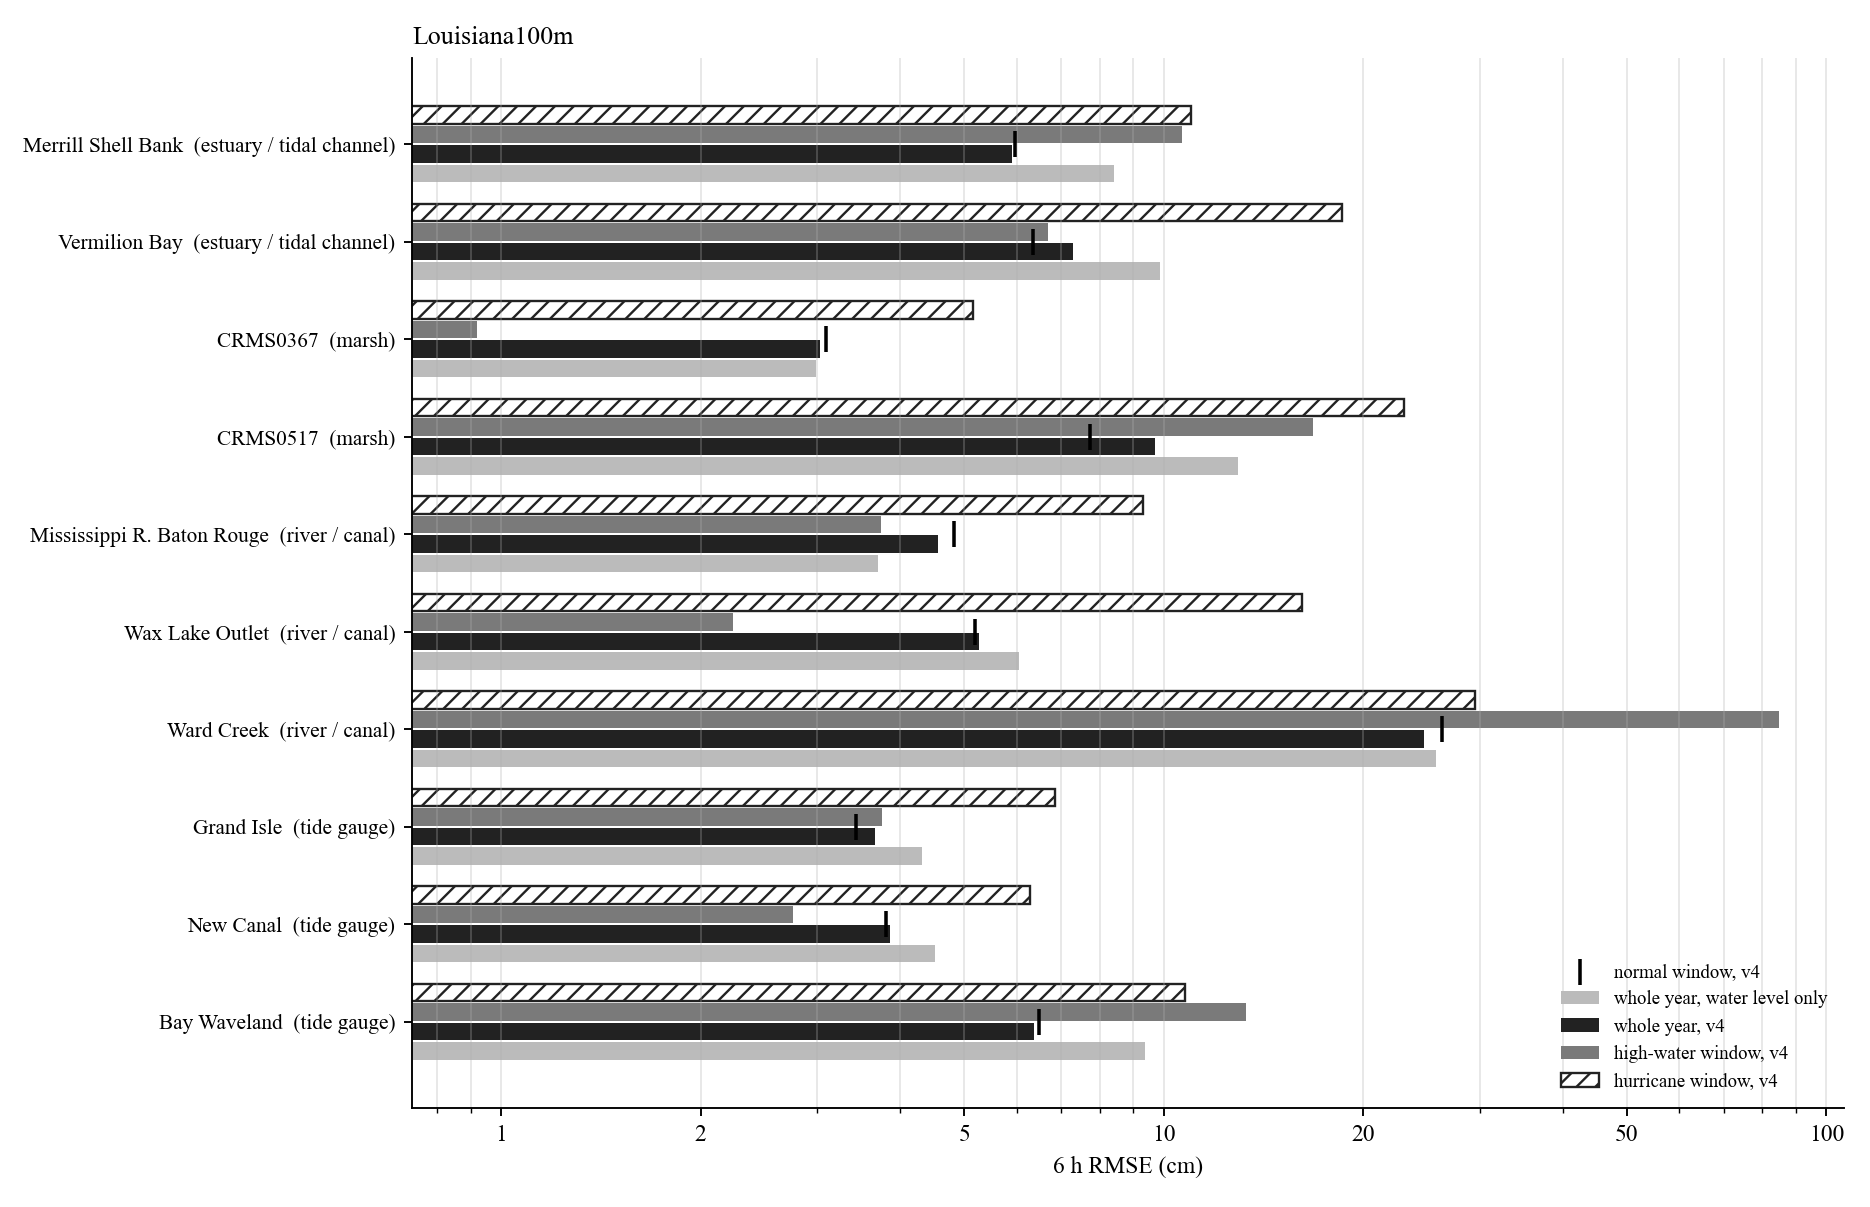
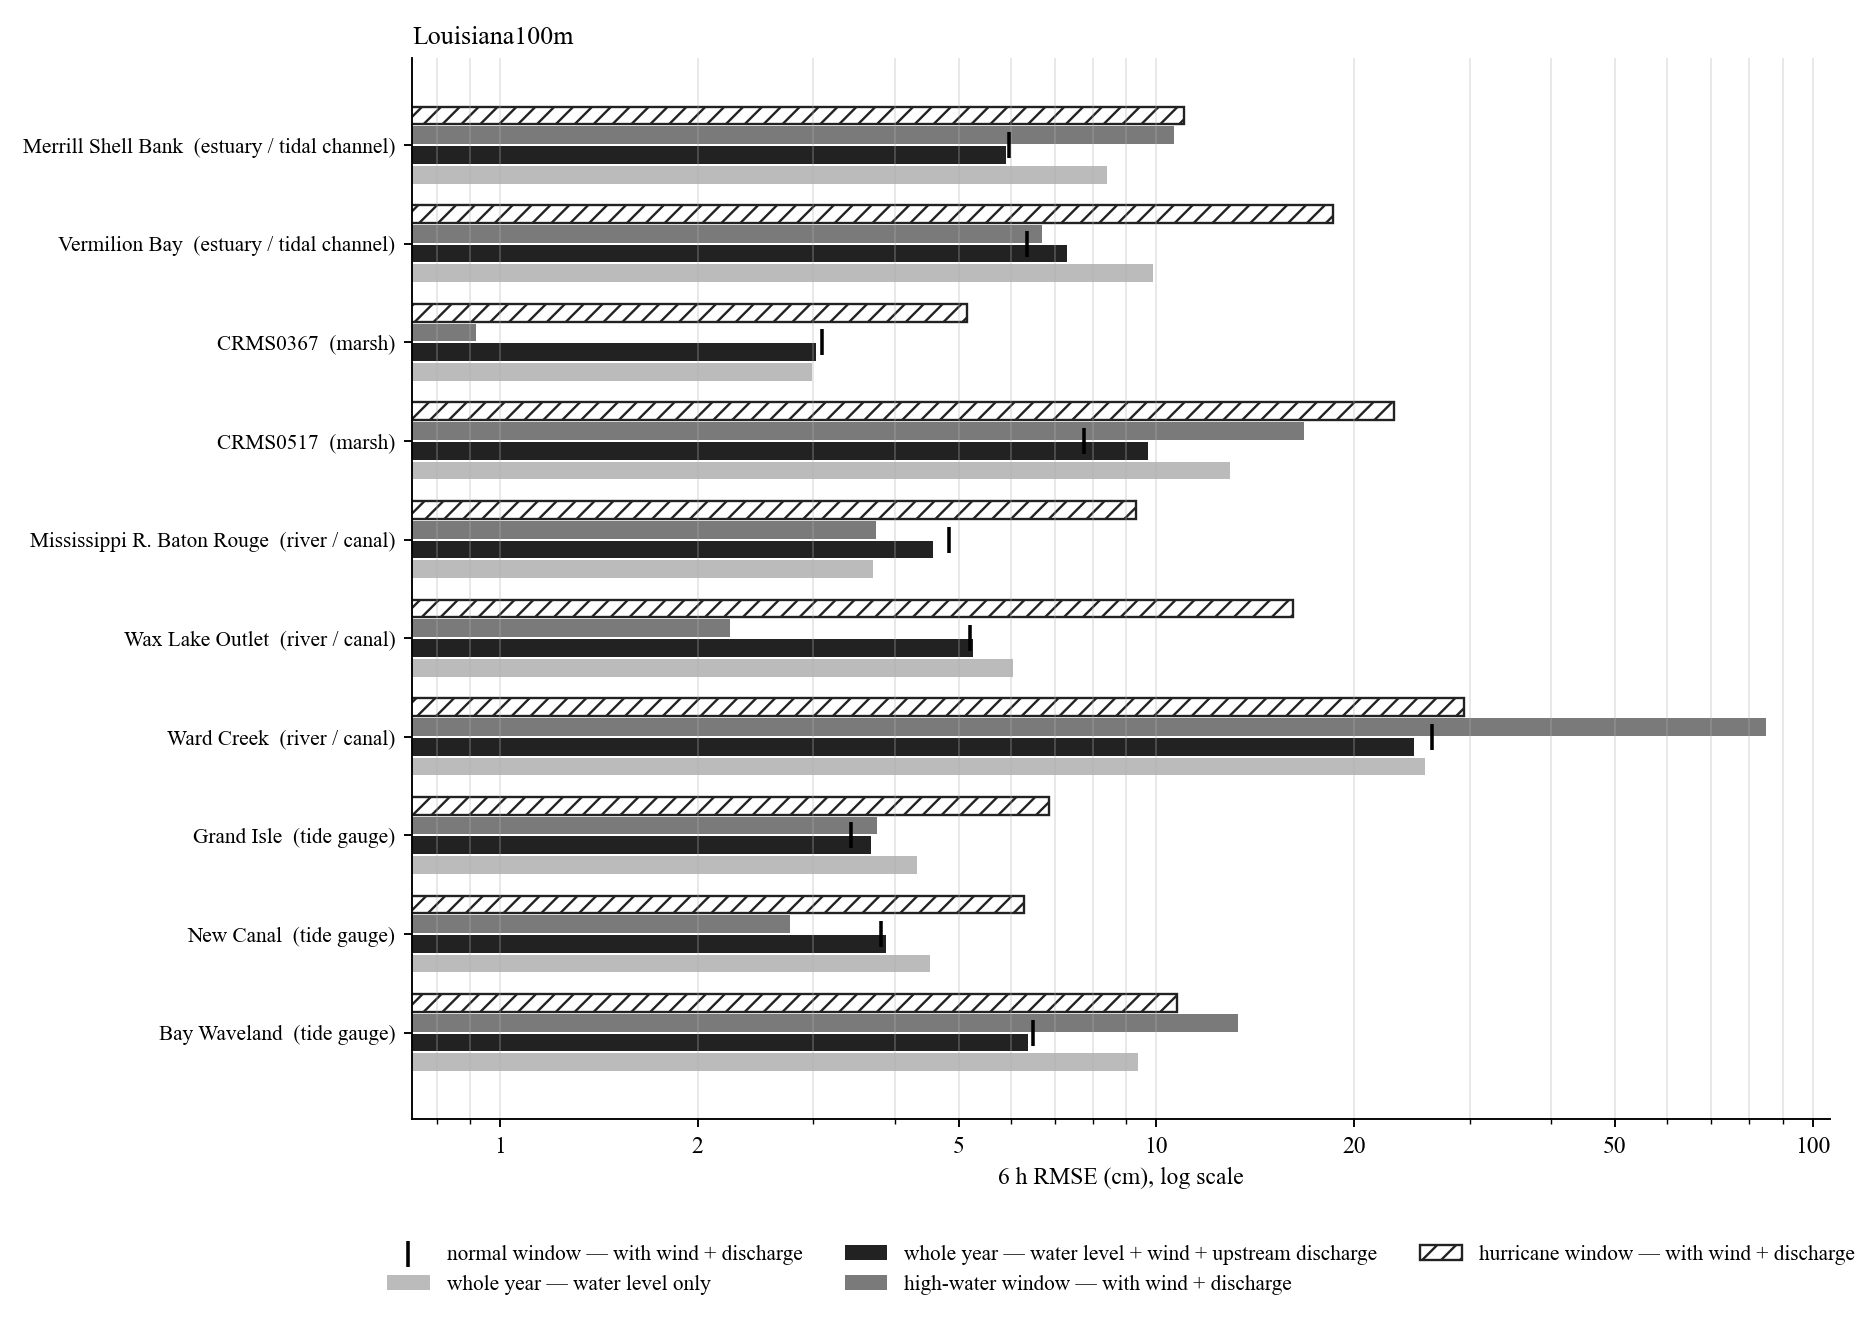
figures and slides: descriptive model labels instead of internal run codes

Changed region(s): [[0.0, 0.0, 0.9925, 0.9809], [0.1861, 0.9196, 0.3102, 0.9809]]

diff --git a/scripts/report/slides_representative.py b/scripts/report/slides_representative.py
@@ -77,7 +77,7 @@ def main() -> None:
 
     # 1. overview: map
     n += 1; sl = prs.slides.add_slide(blank)
-    text(sl, 0.5, 0.35, 12.3, 0.5, "Representative stations: 6 h water-level forecasts of the LSTM (v4: water level + wind + upstream discharge)", size=18, bold=True)
+    text(sl, 0.5, 0.35, 12.3, 0.5, "Representative stations: 1–6 h water-level forecasts of the LSTM (inputs: water level, wind, upstream discharge)", size=18, bold=True)
     sl.shapes.add_picture(str(D / "map.png"), Inches(0.85), Inches(0.95), width=Inches(11.6))
     cnt = s.groupby(["domain", "type"]).size()
     lines = ["Test period 2024-01 to 2025-12. Forecasts issued every hour; the plots show the 1–6 h trajectory issued every 6 h.",
@@ -96,8 +96,8 @@ def main() -> None:
         "   high water — the 4 days around the highest observed level outside the hurricane;",
         "   normal — 4 days whose 6 h error equals the station's whole-year error.",
         "",
-        "Black: observation. Red: the v4 model's 1–6 h forecast issued every 6 h, drawn from the observation at the issue time.",
-        "Blue dashed: the water-level-only model (no wind, no discharge), same issue times.",
+        "Black: observation. Red: the LSTM with water level + wind + upstream discharge, 1–6 h forecast issued every 6 h, drawn from the observation at the issue time.",
+        "Blue dashed: the same LSTM trained on water level alone (no wind, no discharge), same issue times.",
         "The RMSE in each window title uses every hourly issue time in the window, not only the drawn ones.",
         "",
         "Whole-year RMSE is the test-period RMSE of all hourly forecasts (2024-01 to 2025-12). All errors in cm.",
@@ -137,14 +137,14 @@ def main() -> None:
             sl.shapes.add_picture(str(img), Inches(0.4), Inches(1.1), height=Inches(6.1))
             x = 9.1
             text(sl, x, 1.15, 3.8, 0.3, "6 h RMSE, cm", size=12, bold=True)
-            rows = [("whole year, v4", fmt(r.r6_new)), ("whole year, water level only", fmt(r.r6_obs)),
+            rows = [("whole year, with wind + discharge", fmt(r.r6_new)), ("whole year, water level only", fmt(r.r6_obs)),
                     (f"hurricane window ({r.hurricane_start})", fmt(r["hurricane_6h"])),
                     (f"high-water window ({r.high_water_start})", fmt(r["high water_6h"])),
                     (f"normal window ({r.normal_start})", fmt(r["normal_6h"]))]
             y = 1.5
             for lab, val in rows:
                 text(sl, x, y, 3.0, 0.3, lab, size=11); text(sl, x + 3.0, y, 0.8, 0.3, val, size=11, align=PP_ALIGN.RIGHT); y += 0.32
-            text(sl, x, y + 0.1, 3.8, 0.3, "1 / 3 / 6 h, whole year, v4", size=12, bold=True)
+            text(sl, x, y + 0.1, 3.8, 0.3, "1 / 3 / 6 h, whole year, with wind + discharge", size=12, bold=True)
             text(sl, x, y + 0.42, 3.8, 0.3, f"{r.r1_new:.1f} / {r.r3_new:.1f} / {r.r6_new:.1f} cm", size=11)
             text(sl, x, y + 1.0, 3.8, 2.6, NOTE.get(r.station_id, ""), size=11)
             slide_number(sl, n)
@@ -154,9 +154,9 @@ def main() -> None:
         g = s[s.domain == dom]
         n += 1; sl = prs.slides.add_slide(blank)
         text(sl, 0.5, 0.35, 12.3, 0.5, f"{dom}: summary (6 h RMSE, cm)", size=18, bold=True)
-        cols = ["station", "type", "year v4", "year level-only", "hurricane", "high water", "normal", "1 h", "3 h"]
+        cols = ["station", "type", "year, wind + discharge", "year, level only", "hurricane", "high water", "normal", "1 h", "3 h"]
         tbl = sl.shapes.add_table(len(g) + 1, len(cols), Inches(0.5), Inches(1.1), Inches(12.3), Inches(0.4 * (len(g) + 1))).table
-        widths = [3.0, 2.2, 1.0, 1.4, 1.1, 1.2, 1.0, 0.7, 0.7]
+        widths = [2.7, 2.1, 1.7, 1.2, 1.1, 1.2, 1.0, 0.6, 0.7]
         for j, wdt in enumerate(widths):
             tbl.columns[j].width = Inches(wdt)
         def cell(i, j, v, bold=False, align=PP_ALIGN.LEFT):
@@ -171,7 +171,7 @@ def main() -> None:
             for j, v in enumerate(vals):
                 cell(i, j, v, align=PP_ALIGN.LEFT if j < 2 else PP_ALIGN.RIGHT)
         # plain table style: remove banding by setting all fills to none already; borders stay default
-        text(sl, 0.5, 1.2 + 0.4 * (len(g) + 1) + 0.2, 12.3, 0.6, f"Hurricane window: {HURR[dom]}. year = whole test period 2024-01 to 2025-12; windows = 4 days.", size=11)
+        text(sl, 0.5, 1.2 + 0.4 * (len(g) + 1) + 0.2, 12.3, 0.6, f"Hurricane window: {HURR[dom]}. year = whole test period 2024-01 to 2025-12; windows = 4 days; all values are 6 h RMSE of the LSTM with wind + discharge except the level-only column.", size=11)
         slide_number(sl, n)
 
     # 5. what the set shows

diff --git a/scripts/report/representative.py b/scripts/report/representative.py
@@ -5,7 +5,7 @@ Inputs (deliverables/10_representative/):
   {la,gal,tx}_windows.csv           per-window 1-6 h RMSE from event_plots.py --hurricane (copied from sv7)
 Outputs (same folder):
   map.png                           all chosen stations, colour = type, label = short name, domain boxes
-  range_<domain>.png                per station: 6 h RMSE full year (v4 and water-level-only) and in the hurricane / high-water / normal windows
+  range_<domain>.png                per station: 6 h RMSE full year (with and without wind + discharge) and in the hurricane / high-water / normal windows
   summary.csv / summary.md          one row per station
 Usage: python representative.py [--map-only]
 """
@@ -88,8 +88,8 @@ def main() -> None:
     s.to_csv(D / "summary.csv", index=False)
     cols = ["domain", "type", "short", "r1_new", "r3_new", "r6_new", "r6_obs", "hurricane_6h", "high water_6h", "normal_6h", "hurricane_start", "high_water_start", "normal_start"]
     md = s[cols].copy(); md.columns = ["domain", "type", "station", "year 1 h", "year 3 h", "year 6 h", "water-level-only 6 h", "hurricane 6 h", "high water 6 h", "normal 6 h", "hurricane window", "high-water window", "normal window"]
-    lines = ["# Representative stations: 6 h RMSE (cm), v4 model (wind + discharge)", "",
-             "year = whole test period 2024-01 to 2025-12; hurricane / high water / normal = 4-day windows (all forecast origins in the window). water-level-only = model without wind and discharge, whole test period.", "",
+    lines = ["# Representative stations: 6 h RMSE (cm) of the LSTM with water level + wind + upstream discharge", "",
+             "year = whole test period 2024-01 to 2025-12; hurricane / high water / normal = 4-day windows (all forecast origins in the window). water-level-only = the same LSTM trained on water level alone (no wind, no discharge), whole test period.", "",
              "| " + " | ".join(md.columns) + " |", "|" + "---|" * len(md.columns)]
     for _, r in md.iterrows():
         lines.append("| " + " | ".join(f"{v:.1f}" if isinstance(v, float) else str(v) for v in r.values) + " |")
@@ -98,19 +98,19 @@ def main() -> None:
     # error-range comparison per domain
     for dom, g in s.groupby("domain", sort=False):
         g = g.sort_values(["type", "r6_new"])
-        fig, ax = plt.subplots(figsize=(11, 0.55 * len(g) + 1.6))
+        fig, ax = plt.subplots(figsize=(11, 0.55 * len(g) + 2.3))
         y = np.arange(len(g))
-        ax.barh(y + 0.3, g.r6_obs, 0.18, color="#bbbbbb", label="whole year, water level only")
-        ax.barh(y + 0.1, g.r6_new, 0.18, color="#222222", label="whole year, v4")
-        ax.barh(y - 0.1, g["high water_6h"], 0.18, color="#7a7a7a", label="high-water window, v4")
-        ax.barh(y - 0.3, g["hurricane_6h"], 0.18, color="#ffffff", edgecolor="#222222", hatch="///", label="hurricane window, v4")
-        ax.scatter(g["normal_6h"], y, marker="|", s=120, color="k", zorder=5, label="normal window, v4")
+        ax.barh(y + 0.3, g.r6_obs, 0.18, color="#bbbbbb", label="whole year — water level only")
+        ax.barh(y + 0.1, g.r6_new, 0.18, color="#222222", label="whole year — water level + wind + upstream discharge")
+        ax.barh(y - 0.1, g["high water_6h"], 0.18, color="#7a7a7a", label="high-water window — with wind + discharge")
+        ax.barh(y - 0.3, g["hurricane_6h"], 0.18, color="#ffffff", edgecolor="#222222", hatch="///", label="hurricane window — with wind + discharge")
+        ax.scatter(g["normal_6h"], y, marker="|", s=120, color="k", zorder=5, label="normal window — with wind + discharge")
         ax.set_yticks(y); ax.set_yticklabels([f"{r.short}  ({r.type})" for _, r in g.iterrows()], fontsize=9)
-        ax.invert_yaxis(); ax.set_xlabel("6 h RMSE (cm)"); ax.set_xscale("log")
+        ax.invert_yaxis(); ax.set_xlabel("6 h RMSE (cm), log scale"); ax.set_xscale("log")
         ax.set_xticks([1, 2, 5, 10, 20, 50, 100]); ax.set_xticklabels(["1", "2", "5", "10", "20", "50", "100"])
         ax.grid(axis="x", alpha=.3, which="both"); ax.set_title(dom, fontsize=11, loc="left")
         for sp in ("top", "right"): ax.spines[sp].set_visible(False)
-        ax.legend(fontsize=8, frameon=False, loc="lower right")
+        ax.legend(fontsize=9, frameon=False, loc="upper center", bbox_to_anchor=(0.5, -0.1), ncol=3)
         fig.tight_layout(); fig.savefig(D / f"range_{dom}.png", dpi=170); plt.close(fig)
     print(s[["domain", "short", "r6_new", "hurricane_6h", "high water_6h", "normal_6h"]].round(1).to_string(index=False))
 

diff --git a/scripts/report/compare_v4.py b/scripts/report/compare_v4.py
@@ -153,7 +153,7 @@ def main() -> None:
         ax.scatter(u.lon, u.lat, c=u.d_new_old.clip(-2, 2), cmap="RdBu_r", vmin=-2, vmax=2, s=10, edgecolor="k", lw=.1, transform=ccrs.PlateCarree(), zorder=4)
         sc = ax.scatter(r.lon, r.lat, c=r.d_new_old.clip(-2, 2), cmap="RdBu_r", vmin=-2, vmax=2, s=70, marker="s", edgecolor="k", lw=.6, transform=ccrs.PlateCarree(), zorder=6)
         cb = fig.colorbar(sc, ax=ax, shrink=.75, pad=.02); cb.set_label("change in 6 h RMSE, cm  (blue = better with same-river upstream gauge)")
-        ax.set_title(f"6 h RMSE change, HUC8 gauge (v3) -> same-river upstream gauge (v4). squares = {len(r)} re-mapped stations "
+        ax.set_title(f"6 h RMSE change when the discharge input is taken from the same-river upstream gauge instead of the HUC8 gauge. squares = {len(r)} re-mapped stations "
                      f"(median {r.d_new_old.median():+.2f} cm), dots = unchanged stations (median {u.d_new_old.median():+.2f} cm)", fontsize=10)
         fig.tight_layout(); fig.savefig(out / "08_change_map.png", dpi=150); plt.close(fig)
     print("\n".join(lines[:40]))

diff --git a/deliverables/10_representative/README.md b/deliverables/10_representative/README.md
@@ -2,8 +2,8 @@
 
 23 个站：Louisiana100m 10（潮位站 3、湿地 2、河口 2、河流 3），Galveston100m 8（潮位站 2、河口 2、河流 2、城市溪流 2），Texas100m 5（潮位站 2、河口 1、河流 2）。清单 `stations.csv`，位置图 `map.png`。
 
-每站一张图（`la_*.png`、`gal_*.png`、`tx_*.png`）：三个 4 天窗口——**飓风**（Louisiana 用 Francine 2024-09-10 起，Galveston / Texas 用 Beryl 2024-07-07 起）、**涨水**（飓风之外观测最高的 4 天）、**平常**（6 h 误差等于全年平均的 4 天）。黑线观测，红线 v4 模型每 6 小时起报的 1–6 h 预报轨迹，蓝虚线只用水位的模型。子图标题是窗口内所有起报时刻的 1 / 3 / 6 h RMSE。
+每站一张图（`la_*.png`、`gal_*.png`、`tx_*.png`）：三个 4 天窗口——**飓风**（Louisiana 用 Francine 2024-09-10 起，Galveston / Texas 用 Beryl 2024-07-07 起）、**涨水**（飓风之外观测最高的 4 天）、**平常**（6 h 误差等于全年平均的 4 天）。黑线观测，红线是加了风和上游流量的模型每 6 小时起报的 1–6 h 预报轨迹，蓝虚线只用水位的模型。子图标题是窗口内所有起报时刻的 1 / 3 / 6 h RMSE。
 
-误差范围对比：`range_<domain>.png`，每站五个数——全年（v4 和只用水位）、涨水窗、飓风窗、平常窗的 6 h RMSE，对数坐标。汇总表 `summary.csv` / `summary.md`。
+误差范围对比：`range_<domain>.png`，每站五个数——全年（加风和流量的模型、只用水位的模型）、涨水窗、飓风窗、平常窗的 6 h RMSE，对数坐标。汇总表 `summary.csv` / `summary.md`。
 
 幻灯片 `representative_stations.pptx`（32 页，白底黑字 Times New Roman，无标题页）：位置图、读图说明、每个 domain 一页误差范围 + 每站一页、每个 domain 一页汇总表、一页总结。脚本：`scripts/report/event_plots.py --hurricane`、`scripts/report/representative.py`、`scripts/report/slides_representative.py`。

diff --git a/deliverables/events/README.md b/deliverables/events/README.md
@@ -1,7 +1,7 @@
 # 事件尺度的预报图
 
 每个站一张图、三个 4 天窗口：**最高水位**（测试期观测最高的那次事件，窗口以峰值为中心）、**最差 4 天**（6 h 误差最大的 4 天）、**典型 4 天**（6 h 误差最接近该站全年平均的 4 天）。
-图里黑线是观测，红线是 v4 模型（水位 + 风 + 流量）每 6 小时起报一次的 1–6 小时预报轨迹，从起报时刻的观测值出发画 6 个点；蓝虚线是只用水位的模型。子图标题里是该窗口内**所有**起报时刻（不只画出来的那些）的 1 / 3 / 6 h RMSE。
+图里黑线是观测，红线是加了风和上游流量的模型（水位 + 风 + 流量）每 6 小时起报一次的 1–6 小时预报轨迹，从起报时刻的观测值出发画 6 个点；蓝虚线是只用水位的模型。子图标题里是该窗口内**所有**起报时刻（不只画出来的那些）的 1 / 3 / 6 h RMSE。
 红线没画出来的时段，是起报时过去 72 小时的观测或风场缺测太多，模型不出预报。
 
 脚本 `scripts/report/event_plots.py`，可以指定任何站和起始日期：`--stations USGS:08114000 --start 2024-07-07 --days 4`。全部窗口的数字在 `event_windows.csv`。
@@ -9,7 +9,7 @@
 
 ## 汇总：36 个站的 6 h RMSE 在哪（一站一行）
 
-`event_summary.csv`：每站全年（测试集 2024-01 → 2025-12）的 1 / 3 / 6 h RMSE（v4）、只用水位模型的 6 h RMSE，以及三个窗口各自的 6 h RMSE。
+`event_summary.csv`：每站全年（测试集 2024-01 → 2025-12）的 1 / 3 / 6 h RMSE（加风和流量的模型）、只用水位模型的 6 h RMSE，以及三个窗口各自的 6 h RMSE。
 
 ## Louisiana100m
 

diff --git a/deliverables/10_representative/summary.md b/deliverables/10_representative/summary.md
@@ -1,6 +1,6 @@
-# Representative stations: 6 h RMSE (cm), v4 model (wind + discharge)
+# Representative stations: 6 h RMSE (cm) of the LSTM with water level + wind + upstream discharge
 
-year = whole test period 2024-01 to 2025-12; hurricane / high water / normal = 4-day windows (all forecast origins in the window). water-level-only = model without wind and discharge, whole test period.
+year = whole test period 2024-01 to 2025-12; hurricane / high water / normal = 4-day windows (all forecast origins in the window). water-level-only = the same LSTM trained on water level alone (no wind, no discharge), whole test period.
 
 | domain | type | station | year 1 h | year 3 h | year 6 h | water-level-only 6 h | hurricane 6 h | high water 6 h | normal 6 h | hurricane window | high-water window | normal window |
 |---|---|---|---|---|---|---|---|---|---|---|---|---|
